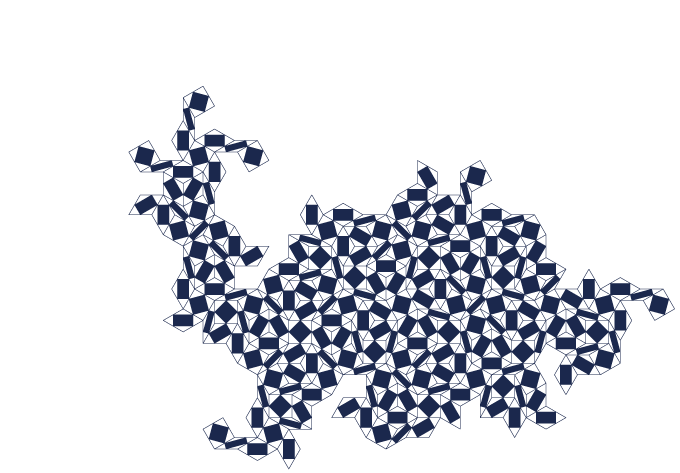
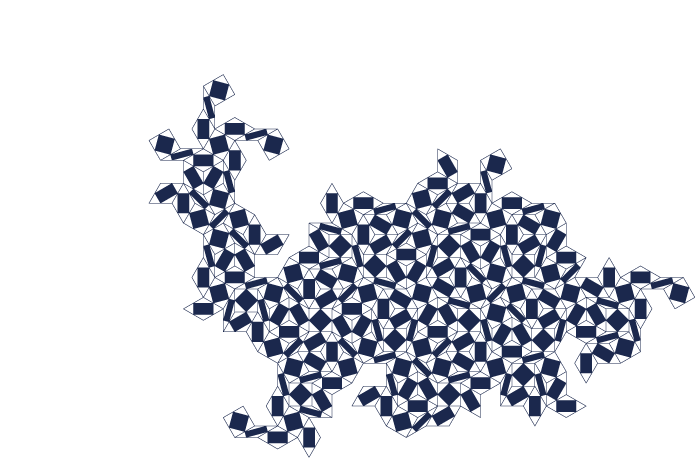
move

Changed region(s): [[0.1853, 0.1515, 1.0, 1.0]]

diff --git a/viscuitta/test.html b/viscuitta/test.html
@@ -18,9 +18,39 @@
                 , { "pattern": [".r1"], "next": [[[3, 3, 1, -1, -1, -1, -2], [-2, 1, 0, 0, 0, -1, -1], [8, 1, 1, 1, 0, -1, -1], [-1, 1, 1, 0, 0, -1, -1]], [[8, 1, 0, 1, 0, -1, -1], [4, 0, 0, 0, 0, -1, -1], [4, 1, 1, 0, 0, -2, -2], [-1, 1, 1, 0, 0, -2, -1], [3, 1, 0, 0, -1, -2, -1], [-1, 0, 0, 0, 0, -1, 0], [-2, 1, 0, 0, -1, -1, -1]], [[0, 0, 0, 0, 0, -1, -1], [1, 1, 0, 0, 0, -1, -1], [0, 1, 1, 0, 0, -2, -2], [-1, 1, 1, 1, 0, -1, -1]]] }
                 , { "pattern": [".r2"], "next": [[], [[8, 1, 0, 1, 0, -1, -1], [-1, 0, 0, 0, 0, -1, 0], [5, 1, 0, 0, -1, -1, -2], [2, 0, 0, -1, -1, -1, -1], [1, 1, 0, 0, 0, -1, -1], [4, 0, 0, 0, 0, -1, -1], [-2, 1, 0, 0, -1, -1, -1], [7, 0, 0, 0, -1, -1, -1]], [[0, 0, 0, 0, 0, -1, -1]]] }]
             ,
+            // harris
+            [{ "pattern": [".r0"], "next": [[[0, 0, 1, 0, 0, -1, 0], [0, 1, 1, 1, -1, -1, -1], [3, 1, 1, 0, -1, -1, -1], [-2, 0, 0, 0, 0, 0, 0], [-2, 2, 2, 1, 0, -1, -2], [-1, 1, 1, 1, 0, 0, 0], [-1, 1, 1, 0, -1, -1, -1]], [[0, 1, 0, 1, 0, -1, -3], [-1, 0, 1, 0, 0, -1, 0], [5, 2, 1, 1, -1, -1, -2], [6, 1, 1, 0, 0, -1, 0]], [[1, 0, 0, 0, 0, 0, 0], [1, 2, 1, 1, -1, -1, -2], [0, 0, 1, 0, 0, -1, -1], [0, 1, 1, 1, 0, -1, -1], [2, 1, 1, 0, 0, -1, 0], [2, 1, 1, 0, -1, -1, -1]]] }
+                , { "pattern": [".r1"], "next": [[[3, 3, 1, -1, -1, -1, -2], [-2, 1, 0, 0, 0, -1, -1], [8, 1, 1, 1, 0, -1, -1], [-1, 1, 1, 0, 0, -1, -1]], [[8, 1, 0, 1, 0, -1, -1], [4, 0, 0, 0, 0, -1, -1], [4, 1, 1, 0, 0, -2, -2], [-1, 1, 1, 0, 0, -2, -1], [3, 1, 0, 0, -1, -2, -1], [-1, 0, 0, 0, 0, -1, 0], [-2, 1, 0, 0, -1, -1, -1]], [[0, 0, 0, 0, 0, -1, -1], [1, 1, 0, 0, 0, -1, -1], [0, 1, 1, 0, 0, -2, -2], [-1, 1, 1, 1, 0, -1, -1]]] }
+                , { "pattern": [".r2"], "next": [[], [[8, 1, 0, 1, 0, -1, -1], [-1, 0, 0, 0, 0, -1, 0], [5, 1, 0, 0, -1, -1, -2], [2, 0, 0, -1, -1, -1, -1], [1, 1, 0, 0, 0, -1, -1], [4, 0, 0, 0, 0, -1, -1], [-2, 1, 0, 0, -1, -1, -1], [7, 0, 0, 0, -1, -1, -1]], [[0, 0, 0, 0, 0, -1, -1]]] }]
+            ,
+            // harris
+            [{ "pattern": [".r0"], "next": [[[0, 0, 1, 0, 0, -1, 0], [0, 1, 1, 1, -1, -1, -1], [3, 1, 1, 0, -1, -1, -1], [-2, 0, 0, 0, 0, 0, 0], [-2, 2, 2, 1, 0, -1, -2], [-1, 1, 1, 1, 0, 0, 0], [-1, 1, 1, 0, -1, -1, -1]], [[0, 1, 0, 1, 0, -1, -3], [-1, 0, 1, 0, 0, -1, 0], [5, 2, 1, 1, -1, -1, -2], [6, 1, 1, 0, 0, -1, 0]], [[1, 0, 0, 0, 0, 0, 0], [1, 2, 1, 1, -1, -1, -2], [0, 0, 1, 0, 0, -1, -1], [0, 1, 1, 1, 0, -1, -1], [2, 1, 1, 0, 0, -1, 0], [2, 1, 1, 0, -1, -1, -1]]] }
+                , { "pattern": [".r1"], "next": [[[3, 3, 1, -1, -1, -1, -2], [-2, 1, 0, 0, 0, -1, -1], [8, 1, 1, 1, 0, -1, -1], [-1, 1, 1, 0, 0, -1, -1]], [[8, 1, 0, 1, 0, -1, -1], [4, 0, 0, 0, 0, -1, -1], [4, 1, 1, 0, 0, -2, -2], [-1, 1, 1, 0, 0, -2, -1], [3, 1, 0, 0, -1, -2, -1], [-1, 0, 0, 0, 0, -1, 0], [-2, 1, 0, 0, -1, -1, -1]], [[0, 0, 0, 0, 0, -1, -1], [1, 1, 0, 0, 0, -1, -1], [0, 1, 1, 0, 0, -2, -2], [-1, 1, 1, 1, 0, -1, -1]]] }
+                , { "pattern": [".r2"], "next": [[], [[8, 1, 0, 1, 0, -1, -1], [-1, 0, 0, 0, 0, -1, 0], [5, 1, 0, 0, -1, -1, -2], [2, 0, 0, -1, -1, -1, -1], [1, 1, 0, 0, 0, -1, -1], [4, 0, 0, 0, 0, -1, -1], [-2, 1, 0, 0, -1, -1, -1], [7, 0, 0, 0, -1, -1, -1]], [[0, 0, 0, 0, 0, -1, -1]]] }]
+            ,
             // combo36
             [{ "pattern": [".r0"], "next": [[[0, 0, 1, 0, 0, -1, 0], [0, 1, 1, 1, -1, -1, -1], [3, 1, 1, 0, -1, -1, -1], [-2, 0, 0, 0, 0, 0, 0], [-2, 2, 2, 1, 0, -1, -2], [-1, 1, 1, 1, 0, 0, 0], [-1, 1, 1, 0, -1, -1, -1]], [[0, 1, 0, 1, 0, -1, -3], [-1, 0, 1, 0, 0, -1, 0], [5, 2, 1, 1, -1, -1, -2], [6, 1, 1, 0, 0, -1, 0], [3, 0, 0, 0, -1, -1, 0], [-3, 2, 2, 1, 0, -1, -2], [-2, 1, 1, 1, 0, 0, 0], [4, 1, 1, 0, -1, -2, -2], [7, 0, 1, 0, -1, -1, -1], [1, 2, 1, 1, 0, -1, -1], [2, 0, 1, 0, 0, 0, 0], [-4, 2, 1, 1, -1, -2, -2]], [[1, 0, 0, 0, 0, 0, 0], [1, 2, 1, 1, -1, -1, -2], [0, 0, 1, 0, 0, -1, -1], [0, 1, 1, 1, 0, -1, -1], [2, 1, 1, 0, 0, -1, 0], [2, 1, 1, 0, -1, -1, -1]]] }
                 , { "pattern": [".r1"], "next": [[[-3, 2, 1, 1, 0, -2, -2], [-2, 1, 0, 0, 0, -1, -1], [8, 1, 1, 1, 0, -1, -1], [-1, 1, 1, 0, 0, -1, -1]], [[8, 2, 1, 1, 0, -2, -2], [0, 1, 1, 1, 0, -1, -2], [4, 1, 1, 0, 0, -2, -2], [-1, 1, 1, 0, 0, -2, -1], [3, 1, 0, 0, -1, -2, -1], [7, 1, 1, 0, -1, -2, -2], [-2, 1, 0, 0, -1, -1, -1]], [[-1, 1, 0, 0, -1, -2, -1], [1, 1, 0, 0, 0, -1, -1], [0, 1, 1, 0, 0, -2, -2], [-1, 1, 1, 1, 0, -1, -1]]] }
+                , { "pattern": [".r2"], "next": [[], [], [[0, 0, 0, 0, 0, -1, -1]]] }]
+            ,
+            // combo36
+            [{ "pattern": [".r0"], "next": [[[0, 0, 1, 0, 0, -1, 0], [0, 1, 1, 1, -1, -1, -1], [3, 1, 1, 0, -1, -1, -1], [-2, 0, 0, 0, 0, 0, 0], [-2, 2, 2, 1, 0, -1, -2], [-1, 1, 1, 1, 0, 0, 0], [-1, 1, 1, 0, -1, -1, -1]], [[0, 1, 0, 1, 0, -1, -3], [-1, 0, 1, 0, 0, -1, 0], [5, 2, 1, 1, -1, -1, -2], [6, 1, 1, 0, 0, -1, 0], [3, 0, 0, 0, -1, -1, 0], [-3, 2, 2, 1, 0, -1, -2], [-2, 1, 1, 1, 0, 0, 0], [4, 1, 1, 0, -1, -2, -2], [7, 0, 1, 0, -1, -1, -1], [1, 2, 1, 1, 0, -1, -1], [2, 0, 1, 0, 0, 0, 0], [-4, 2, 1, 1, -1, -2, -2]], [[1, 0, 0, 0, 0, 0, 0], [1, 2, 1, 1, -1, -1, -2], [0, 0, 1, 0, 0, -1, -1], [0, 1, 1, 1, 0, -1, -1], [2, 1, 1, 0, 0, -1, 0], [2, 1, 1, 0, -1, -1, -1]]] }
+                , { "pattern": [".r1"], "next": [[[-3, 2, 1, 1, 0, -2, -2], [-2, 1, 0, 0, 0, -1, -1], [8, 1, 1, 1, 0, -1, -1], [-1, 1, 1, 0, 0, -1, -1]], [[8, 2, 1, 1, 0, -2, -2], [0, 1, 1, 1, 0, -1, -2], [4, 1, 1, 0, 0, -2, -2], [-1, 1, 1, 0, 0, -2, -1], [3, 1, 0, 0, -1, -2, -1], [7, 1, 1, 0, -1, -2, -2], [-2, 1, 0, 0, -1, -1, -1]], [[-1, 1, 0, 0, -1, -2, -1], [1, 1, 0, 0, 0, -1, -1], [0, 1, 1, 0, 0, -2, -2], [-1, 1, 1, 1, 0, -1, -1]]] }
+                , { "pattern": [".r2"], "next": [[], [], [[0, 0, 0, 0, 0, -1, -1]]] }]
+            ,
+            // combo36
+            [{ "pattern": [".r0"], "next": [[[0, 0, 1, 0, 0, -1, 0], [0, 1, 1, 1, -1, -1, -1], [3, 1, 1, 0, -1, -1, -1], [-2, 0, 0, 0, 0, 0, 0], [-2, 2, 2, 1, 0, -1, -2], [-1, 1, 1, 1, 0, 0, 0], [-1, 1, 1, 0, -1, -1, -1]], [[0, 1, 0, 1, 0, -1, -3], [-1, 0, 1, 0, 0, -1, 0], [5, 2, 1, 1, -1, -1, -2], [6, 1, 1, 0, 0, -1, 0], [3, 0, 0, 0, -1, -1, 0], [-3, 2, 2, 1, 0, -1, -2], [-2, 1, 1, 1, 0, 0, 0], [4, 1, 1, 0, -1, -2, -2], [7, 0, 1, 0, -1, -1, -1], [1, 2, 1, 1, 0, -1, -1], [2, 0, 1, 0, 0, 0, 0], [-4, 2, 1, 1, -1, -2, -2]], [[1, 0, 0, 0, 0, 0, 0], [1, 2, 1, 1, -1, -1, -2], [0, 0, 1, 0, 0, -1, -1], [0, 1, 1, 1, 0, -1, -1], [2, 1, 1, 0, 0, -1, 0], [2, 1, 1, 0, -1, -1, -1]]] }
+                , { "pattern": [".r1"], "next": [[[-3, 2, 1, 1, 0, -2, -2], [-2, 1, 0, 0, 0, -1, -1], [8, 1, 1, 1, 0, -1, -1], [-1, 1, 1, 0, 0, -1, -1]], [[8, 2, 1, 1, 0, -2, -2], [0, 1, 1, 1, 0, -1, -2], [4, 1, 1, 0, 0, -2, -2], [-1, 1, 1, 0, 0, -2, -1], [3, 1, 0, 0, -1, -2, -1], [7, 1, 1, 0, -1, -2, -2], [-2, 1, 0, 0, -1, -1, -1]], [[-1, 1, 0, 0, -1, -2, -1], [1, 1, 0, 0, 0, -1, -1], [0, 1, 1, 0, 0, -2, -2], [-1, 1, 1, 1, 0, -1, -1]]] }
+                , { "pattern": [".r2"], "next": [[], [], [[0, 0, 0, 0, 0, -1, -1]]] }]
+            ,
+            // sqsmall
+            [{ "pattern": [".r0"], "next": [[[0, 0, 1, 0, 0, -1, 0], [0, 1, 1, 1, -1, -1, -1], [3, 1, 1, 0, -1, -1, -1], [-1, 1, 1, 0, -1, -1, -1], [-2, 2, 2, 1, 0, -1, -2], [-1, 1, 1, 1, 0, 0, 0], [-2, 0, 0, 0, 0, 0, 0]], [[0, 1, 0, 1, 0, -1, -3], [4, 1, 0, 0, 0, -2, -3], [-1, 0, 1, 0, 0, -1, 0], [3, 0, 0, 0, -1, -1, 0], [5, 2, 1, 1, -1, -1, -2], [9, 2, 2, 1, 0, -1, -2], [-2, 1, 1, 1, 0, 0, 0], [6, 1, 1, 0, 0, -1, 0], [-1, 1, 1, 0, -1, -2, -1], [4, 2, 2, 1, 0, -2, -2], [5, 1, 1, 1, 0, 0, -1], [-2, 0, 0, 0, -1, 0, 0]], [[1, 0, 0, 0, 0, 0, 0], [1, 2, 1, 1, -1, -1, -2], [0, 0, 1, 0, 0, -1, -1], [0, 1, 1, 1, 0, -1, -1], [2, 1, 1, 0, 0, -1, 0], [2, 1, 1, 0, -1, -1, -1]]] }
+                , { "pattern": [".r1"], "next": [[[-3, 2, 1, 1, 0, -2, -2], [-2, 1, 0, 0, 0, -1, -1], [8, 1, 1, 1, 0, -1, -1], [-1, 1, 1, 0, 0, -1, -1]], [[3, 2, 1, 1, -1, -2, -2], [8, 2, 1, 1, 0, -2, -2], [4, 1, 1, 0, 0, -2, -2], [-1, 1, 1, 0, 0, -2, -1], [3, 1, 0, 0, -1, -2, -1], [-4, 1, 0, 1, 0, -1, -1], [2, 0, 0, -1, -1, -1, -1]], [[0, 0, 0, 0, 0, -1, -1], [1, 1, 0, 0, 0, -1, -1], [0, 1, 1, 0, 0, -2, -2], [-1, 1, 1, 1, 0, -1, -1]]] }
+                , { "pattern": [".r2"], "next": [[], [], [[0, 0, 0, 0, 0, -1, -1]]] }]
+            ,
+            // sqsmall
+            [{ "pattern": [".r0"], "next": [[[0, 0, 1, 0, 0, -1, 0], [0, 1, 1, 1, -1, -1, -1], [3, 1, 1, 0, -1, -1, -1], [-1, 1, 1, 0, -1, -1, -1], [-2, 2, 2, 1, 0, -1, -2], [-1, 1, 1, 1, 0, 0, 0], [-2, 0, 0, 0, 0, 0, 0]], [[0, 1, 0, 1, 0, -1, -3], [4, 1, 0, 0, 0, -2, -3], [-1, 0, 1, 0, 0, -1, 0], [3, 0, 0, 0, -1, -1, 0], [5, 2, 1, 1, -1, -1, -2], [9, 2, 2, 1, 0, -1, -2], [-2, 1, 1, 1, 0, 0, 0], [6, 1, 1, 0, 0, -1, 0], [-1, 1, 1, 0, -1, -2, -1], [4, 2, 2, 1, 0, -2, -2], [5, 1, 1, 1, 0, 0, -1], [-2, 0, 0, 0, -1, 0, 0]], [[1, 0, 0, 0, 0, 0, 0], [1, 2, 1, 1, -1, -1, -2], [0, 0, 1, 0, 0, -1, -1], [0, 1, 1, 1, 0, -1, -1], [2, 1, 1, 0, 0, -1, 0], [2, 1, 1, 0, -1, -1, -1]]] }
+                , { "pattern": [".r1"], "next": [[[-3, 2, 1, 1, 0, -2, -2], [-2, 1, 0, 0, 0, -1, -1], [8, 1, 1, 1, 0, -1, -1], [-1, 1, 1, 0, 0, -1, -1]], [[3, 2, 1, 1, -1, -2, -2], [8, 2, 1, 1, 0, -2, -2], [4, 1, 1, 0, 0, -2, -2], [-1, 1, 1, 0, 0, -2, -1], [3, 1, 0, 0, -1, -2, -1], [-4, 1, 0, 1, 0, -1, -1], [2, 0, 0, -1, -1, -1, -1]], [[0, 0, 0, 0, 0, -1, -1], [1, 1, 0, 0, 0, -1, -1], [0, 1, 1, 0, 0, -2, -2], [-1, 1, 1, 1, 0, -1, -1]]] }
                 , { "pattern": [".r2"], "next": [[], [], [[0, 0, 0, 0, 0, -1, -1]]] }]
             ,
             // sqsmall
@@ -33,6 +63,26 @@
                 , { "pattern": [".r1"], "next": [[[-1, 0, 0, 0, 0, 0, 0], [-2, 1, 0, 0, 0, -1, -1], [8, 1, 1, 1, 0, -1, -1], [-1, 1, 1, 0, 0, -1, -1]], [[8, 1, 0, 1, 0, -1, -1], [8, 2, 1, 1, 0, -2, -2], [4, 1, 1, 0, 0, -2, -2], [-1, 1, 1, 0, 0, -2, -1], [3, 1, 0, 0, -1, -2, -1], [-1, 0, 0, 0, 0, -1, 0], [2, 0, 0, -1, -1, -1, -1]], [[0, 0, 0, 0, 0, -1, -1], [1, 1, 0, 0, 0, -1, -1], [0, 1, 1, 0, 0, -2, -2], [-1, 1, 1, 1, 0, -1, -1]]] }
                 , { "pattern": [".r2"], "next": [[[-1, 0, 0, 0, 0, 0, 0], [5, 1, 0, 0, -1, -2, -2], [2, 0, -1, -1, -1, -1, -1], [-4, 1, 1, 1, 0, -1, -1]], [[8, 1, 0, 1, 0, -1, -1], [-1, 0, 0, 0, 0, -1, 0], [5, 1, 0, 0, -1, -1, -2], [2, 0, 0, -1, -1, -1, -1]], [[0, 0, 0, 0, 0, -1, -1]]] }]
             ,
+            // x
+            [{ "pattern": [".r0"], "next": [[[0, 0, 1, 0, 0, -1, 0], [0, 1, 1, 1, -1, -1, -1], [3, 1, 1, 0, -1, -1, -1]], [[0, 1, 0, 1, 0, -1, -3], [4, 1, 0, 0, 0, -2, -3], [-1, 0, 1, 0, 0, -1, 0], [3, 0, 0, 0, -1, -1, 0], [5, 2, 1, 1, -1, -1, -2], [9, 2, 2, 1, 0, -1, -2], [-2, 1, 1, 1, 0, 0, 0], [6, 1, 1, 0, 0, -1, 0]], [[1, 0, 0, 0, 0, 0, 0], [1, 2, 1, 1, -1, -1, -2], [0, 0, 1, 0, 0, -1, -1], [0, 1, 1, 1, 0, -1, -1], [2, 1, 1, 0, 0, -1, 0], [2, 1, 1, 0, -1, -1, -1]]] }
+                , { "pattern": [".r1"], "next": [[[-1, 0, 0, 0, 0, 0, 0], [-2, 1, 0, 0, 0, -1, -1], [8, 1, 1, 1, 0, -1, -1], [-1, 1, 1, 0, 0, -1, -1]], [[8, 1, 0, 1, 0, -1, -1], [8, 2, 1, 1, 0, -2, -2], [4, 1, 1, 0, 0, -2, -2], [-1, 1, 1, 0, 0, -2, -1], [3, 1, 0, 0, -1, -2, -1], [-1, 0, 0, 0, 0, -1, 0], [2, 0, 0, -1, -1, -1, -1]], [[0, 0, 0, 0, 0, -1, -1], [1, 1, 0, 0, 0, -1, -1], [0, 1, 1, 0, 0, -2, -2], [-1, 1, 1, 1, 0, -1, -1]]] }
+                , { "pattern": [".r2"], "next": [[[-1, 0, 0, 0, 0, 0, 0], [5, 1, 0, 0, -1, -2, -2], [2, 0, -1, -1, -1, -1, -1], [-4, 1, 1, 1, 0, -1, -1]], [[8, 1, 0, 1, 0, -1, -1], [-1, 0, 0, 0, 0, -1, 0], [5, 1, 0, 0, -1, -1, -2], [2, 0, 0, -1, -1, -1, -1]], [[0, 0, 0, 0, 0, -1, -1]]] }]
+            ,
+            // x
+            [{ "pattern": [".r0"], "next": [[[0, 0, 1, 0, 0, -1, 0], [0, 1, 1, 1, -1, -1, -1], [3, 1, 1, 0, -1, -1, -1]], [[0, 1, 0, 1, 0, -1, -3], [4, 1, 0, 0, 0, -2, -3], [-1, 0, 1, 0, 0, -1, 0], [3, 0, 0, 0, -1, -1, 0], [5, 2, 1, 1, -1, -1, -2], [9, 2, 2, 1, 0, -1, -2], [-2, 1, 1, 1, 0, 0, 0], [6, 1, 1, 0, 0, -1, 0]], [[1, 0, 0, 0, 0, 0, 0], [1, 2, 1, 1, -1, -1, -2], [0, 0, 1, 0, 0, -1, -1], [0, 1, 1, 1, 0, -1, -1], [2, 1, 1, 0, 0, -1, 0], [2, 1, 1, 0, -1, -1, -1]]] }
+                , { "pattern": [".r1"], "next": [[[-1, 0, 0, 0, 0, 0, 0], [-2, 1, 0, 0, 0, -1, -1], [8, 1, 1, 1, 0, -1, -1], [-1, 1, 1, 0, 0, -1, -1]], [[8, 1, 0, 1, 0, -1, -1], [8, 2, 1, 1, 0, -2, -2], [4, 1, 1, 0, 0, -2, -2], [-1, 1, 1, 0, 0, -2, -1], [3, 1, 0, 0, -1, -2, -1], [-1, 0, 0, 0, 0, -1, 0], [2, 0, 0, -1, -1, -1, -1]], [[0, 0, 0, 0, 0, -1, -1], [1, 1, 0, 0, 0, -1, -1], [0, 1, 1, 0, 0, -2, -2], [-1, 1, 1, 1, 0, -1, -1]]] }
+                , { "pattern": [".r2"], "next": [[[-1, 0, 0, 0, 0, 0, 0], [5, 1, 0, 0, -1, -2, -2], [2, 0, -1, -1, -1, -1, -1], [-4, 1, 1, 1, 0, -1, -1]], [[8, 1, 0, 1, 0, -1, -1], [-1, 0, 0, 0, 0, -1, 0], [5, 1, 0, 0, -1, -1, -2], [2, 0, 0, -1, -1, -1, -1]], [[0, 0, 0, 0, 0, -1, -1]]] }]
+            ,
+            // spiral
+            [{ "pattern": [".r0"], "next": [[[0, 0, 1, 0, 0, -1, 0], [0, 1, 1, 1, -1, -1, -1], [3, 1, 1, 0, -1, -1, -1]], [[0, 1, 0, 1, 0, -1, -3], [4, 1, 0, 0, 0, -2, -3], [-1, 0, 1, 0, 0, -1, 0], [3, 0, 0, 0, -1, -1, 0], [5, 2, 1, 1, -1, -1, -2], [9, 2, 2, 1, 0, -1, -2], [-2, 1, 1, 1, 0, 0, 0], [6, 1, 1, 0, 0, -1, 0]], [[0, 0, 1, 0, 0, -1, -1], [0, 1, 1, 1, 0, -1, -1]]] }
+                , { "pattern": [".r1"], "next": [[[-1, 0, 0, 0, 0, 0, 0], [-2, 1, 0, 0, 0, -1, -1], [8, 1, 1, 1, 0, -1, -1], [-1, 1, 1, 0, 0, -1, -1]], [[8, 1, 0, 1, 0, -1, -1], [8, 2, 1, 1, 0, -2, -2], [4, 1, 1, 0, 0, -2, -2], [-1, 1, 1, 0, 0, -2, -1], [3, 1, 0, 0, -1, -2, -1], [-1, 0, 0, 0, 0, -1, 0], [2, 0, 0, -1, -1, -1, -1]], [[0, 0, 0, 0, 0, -1, -1], [1, 1, 0, 0, 0, -1, -1], [-1, 0, 0, 1, 0, 0, 0], [-1, 1, 1, 1, 0, -1, -1]]] }
+                , { "pattern": [".r2"], "next": [[[-1, 0, 0, 0, 0, 0, 0], [5, 1, 0, 0, -1, -2, -2], [2, 0, -1, -1, -1, -1, -1], [-4, 1, 1, 1, 0, -1, -1]], [[8, 1, 0, 1, 0, -1, -1], [-1, 0, 0, 0, 0, -1, 0], [5, 1, 0, 0, -1, -1, -2], [2, 0, 0, -1, -1, -1, -1]], [[0, 0, 0, 0, 0, -1, -1], [2, 0, 0, 0, 0, 0, 0], [2, 1, 0, -1, -1, -2, -1], [2, 0, -1, -1, -1, -1, 0], [2, 1, 1, 0, 0, -1, -1]]] }]
+            ,
+            // spiral
+            [{ "pattern": [".r0"], "next": [[[0, 0, 1, 0, 0, -1, 0], [0, 1, 1, 1, -1, -1, -1], [3, 1, 1, 0, -1, -1, -1]], [[0, 1, 0, 1, 0, -1, -3], [4, 1, 0, 0, 0, -2, -3], [-1, 0, 1, 0, 0, -1, 0], [3, 0, 0, 0, -1, -1, 0], [5, 2, 1, 1, -1, -1, -2], [9, 2, 2, 1, 0, -1, -2], [-2, 1, 1, 1, 0, 0, 0], [6, 1, 1, 0, 0, -1, 0]], [[0, 0, 1, 0, 0, -1, -1], [0, 1, 1, 1, 0, -1, -1]]] }
+                , { "pattern": [".r1"], "next": [[[-1, 0, 0, 0, 0, 0, 0], [-2, 1, 0, 0, 0, -1, -1], [8, 1, 1, 1, 0, -1, -1], [-1, 1, 1, 0, 0, -1, -1]], [[8, 1, 0, 1, 0, -1, -1], [8, 2, 1, 1, 0, -2, -2], [4, 1, 1, 0, 0, -2, -2], [-1, 1, 1, 0, 0, -2, -1], [3, 1, 0, 0, -1, -2, -1], [-1, 0, 0, 0, 0, -1, 0], [2, 0, 0, -1, -1, -1, -1]], [[0, 0, 0, 0, 0, -1, -1], [1, 1, 0, 0, 0, -1, -1], [-1, 0, 0, 1, 0, 0, 0], [-1, 1, 1, 1, 0, -1, -1]]] }
+                , { "pattern": [".r2"], "next": [[[-1, 0, 0, 0, 0, 0, 0], [5, 1, 0, 0, -1, -2, -2], [2, 0, -1, -1, -1, -1, -1], [-4, 1, 1, 1, 0, -1, -1]], [[8, 1, 0, 1, 0, -1, -1], [-1, 0, 0, 0, 0, -1, 0], [5, 1, 0, 0, -1, -1, -2], [2, 0, 0, -1, -1, -1, -1]], [[0, 0, 0, 0, 0, -1, -1], [2, 0, 0, 0, 0, 0, 0], [2, 1, 0, -1, -1, -2, -1], [2, 0, -1, -1, -1, -1, 0], [2, 1, 1, 0, 0, -1, -1]]] }]
+            ,
             // spiral
             [{ "pattern": [".r0"], "next": [[[0, 0, 1, 0, 0, -1, 0], [0, 1, 1, 1, -1, -1, -1], [3, 1, 1, 0, -1, -1, -1]], [[0, 1, 0, 1, 0, -1, -3], [4, 1, 0, 0, 0, -2, -3], [-1, 0, 1, 0, 0, -1, 0], [3, 0, 0, 0, -1, -1, 0], [5, 2, 1, 1, -1, -1, -2], [9, 2, 2, 1, 0, -1, -2], [-2, 1, 1, 1, 0, 0, 0], [6, 1, 1, 0, 0, -1, 0]], [[0, 0, 1, 0, 0, -1, -1], [0, 1, 1, 1, 0, -1, -1]]] }
                 , { "pattern": [".r1"], "next": [[[-1, 0, 0, 0, 0, 0, 0], [-2, 1, 0, 0, 0, -1, -1], [8, 1, 1, 1, 0, -1, -1], [-1, 1, 1, 0, 0, -1, -1]], [[8, 1, 0, 1, 0, -1, -1], [8, 2, 1, 1, 0, -2, -2], [4, 1, 1, 0, 0, -2, -2], [-1, 1, 1, 0, 0, -2, -1], [3, 1, 0, 0, -1, -2, -1], [-1, 0, 0, 0, 0, -1, 0], [2, 0, 0, -1, -1, -1, -1]], [[0, 0, 0, 0, 0, -1, -1], [1, 1, 0, 0, 0, -1, -1], [-1, 0, 0, 1, 0, 0, 0], [-1, 1, 1, 1, 0, -1, -1]]] }
@@ -42,6 +92,26 @@
             [{ "pattern": [".r0"], "next": [[[0, 0, 1, 0, 0, -1, 0], [0, 1, 1, 1, -1, -1, -1], [3, 1, 1, 0, -1, -1, -1]], [[0, 1, 0, 1, 0, -1, -3], [-1, 0, 1, 0, 0, -1, 0], [5, 2, 1, 1, -1, -1, -2], [6, 1, 1, 0, 0, -1, 0]], [[1, 0, 0, 0, 0, 0, 0], [1, 2, 1, 1, -1, -1, -2], [0, 0, 1, 0, 0, -1, -1], [0, 1, 1, 1, 0, -1, -1], [2, 1, 1, 0, 0, -1, 0], [2, 1, 1, 0, -1, -1, -1]]] }
                 , { "pattern": [".r1"], "next": [[[-1, 0, 0, 0, 0, 0, 0], [-2, 1, 0, 0, 0, -1, -1], [8, 1, 1, 1, 0, -1, -1], [-1, 1, 1, 0, 0, -1, -1]], [[8, 1, 0, 1, 0, -1, -1], [4, 0, 0, 0, 0, -1, -1], [4, 1, 1, 0, 0, -2, -2], [-1, 1, 1, 0, 0, -2, -1], [3, 1, 0, 0, -1, -2, -1], [-1, 0, 0, 0, 0, -1, 0], [-2, 1, 0, 0, -1, -1, -1]], [[0, 0, 0, 0, 0, -1, -1], [1, 1, 0, 0, 0, -1, -1], [0, 1, 1, 0, 0, -2, -2], [-1, 1, 1, 1, 0, -1, -1]]] }
                 , { "pattern": [".r2"], "next": [[[-1, 0, 0, 0, 0, 0, 0], [5, 1, 0, 0, -1, -2, -2], [2, 0, -1, -1, -1, -1, -1], [-4, 1, 1, 1, 0, -1, -1]], [[8, 1, 0, 1, 0, -1, -1], [-1, 0, 0, 0, 0, -1, 0], [5, 1, 0, 0, -1, -1, -2], [2, 0, 0, -1, -1, -1, -1], [1, 1, 0, 0, 0, -1, -1], [4, 0, 0, 0, 0, -1, -1], [-2, 1, 0, 0, -1, -1, -1], [7, 0, 0, 0, -1, -1, -1]], [[0, 0, 0, 0, 0, -1, -1]]] }]
+            ,
+            // s
+            [{ "pattern": [".r0"], "next": [[[0, 0, 1, 0, 0, -1, 0], [0, 1, 1, 1, -1, -1, -1], [3, 1, 1, 0, -1, -1, -1]], [[0, 1, 0, 1, 0, -1, -3], [-1, 0, 1, 0, 0, -1, 0], [5, 2, 1, 1, -1, -1, -2], [6, 1, 1, 0, 0, -1, 0]], [[1, 0, 0, 0, 0, 0, 0], [1, 2, 1, 1, -1, -1, -2], [0, 0, 1, 0, 0, -1, -1], [0, 1, 1, 1, 0, -1, -1], [2, 1, 1, 0, 0, -1, 0], [2, 1, 1, 0, -1, -1, -1]]] }
+                , { "pattern": [".r1"], "next": [[[-1, 0, 0, 0, 0, 0, 0], [-2, 1, 0, 0, 0, -1, -1], [8, 1, 1, 1, 0, -1, -1], [-1, 1, 1, 0, 0, -1, -1]], [[8, 1, 0, 1, 0, -1, -1], [4, 0, 0, 0, 0, -1, -1], [4, 1, 1, 0, 0, -2, -2], [-1, 1, 1, 0, 0, -2, -1], [3, 1, 0, 0, -1, -2, -1], [-1, 0, 0, 0, 0, -1, 0], [-2, 1, 0, 0, -1, -1, -1]], [[0, 0, 0, 0, 0, -1, -1], [1, 1, 0, 0, 0, -1, -1], [0, 1, 1, 0, 0, -2, -2], [-1, 1, 1, 1, 0, -1, -1]]] }
+                , { "pattern": [".r2"], "next": [[[-1, 0, 0, 0, 0, 0, 0], [5, 1, 0, 0, -1, -2, -2], [2, 0, -1, -1, -1, -1, -1], [-4, 1, 1, 1, 0, -1, -1]], [[8, 1, 0, 1, 0, -1, -1], [-1, 0, 0, 0, 0, -1, 0], [5, 1, 0, 0, -1, -1, -2], [2, 0, 0, -1, -1, -1, -1], [1, 1, 0, 0, 0, -1, -1], [4, 0, 0, 0, 0, -1, -1], [-2, 1, 0, 0, -1, -1, -1], [7, 0, 0, 0, -1, -1, -1]], [[0, 0, 0, 0, 0, -1, -1]]] }]
+            ,
+            // s
+            [{ "pattern": [".r0"], "next": [[[0, 0, 1, 0, 0, -1, 0], [0, 1, 1, 1, -1, -1, -1], [3, 1, 1, 0, -1, -1, -1]], [[0, 1, 0, 1, 0, -1, -3], [-1, 0, 1, 0, 0, -1, 0], [5, 2, 1, 1, -1, -1, -2], [6, 1, 1, 0, 0, -1, 0]], [[1, 0, 0, 0, 0, 0, 0], [1, 2, 1, 1, -1, -1, -2], [0, 0, 1, 0, 0, -1, -1], [0, 1, 1, 1, 0, -1, -1], [2, 1, 1, 0, 0, -1, 0], [2, 1, 1, 0, -1, -1, -1]]] }
+                , { "pattern": [".r1"], "next": [[[-1, 0, 0, 0, 0, 0, 0], [-2, 1, 0, 0, 0, -1, -1], [8, 1, 1, 1, 0, -1, -1], [-1, 1, 1, 0, 0, -1, -1]], [[8, 1, 0, 1, 0, -1, -1], [4, 0, 0, 0, 0, -1, -1], [4, 1, 1, 0, 0, -2, -2], [-1, 1, 1, 0, 0, -2, -1], [3, 1, 0, 0, -1, -2, -1], [-1, 0, 0, 0, 0, -1, 0], [-2, 1, 0, 0, -1, -1, -1]], [[0, 0, 0, 0, 0, -1, -1], [1, 1, 0, 0, 0, -1, -1], [0, 1, 1, 0, 0, -2, -2], [-1, 1, 1, 1, 0, -1, -1]]] }
+                , { "pattern": [".r2"], "next": [[[-1, 0, 0, 0, 0, 0, 0], [5, 1, 0, 0, -1, -2, -2], [2, 0, -1, -1, -1, -1, -1], [-4, 1, 1, 1, 0, -1, -1]], [[8, 1, 0, 1, 0, -1, -1], [-1, 0, 0, 0, 0, -1, 0], [5, 1, 0, 0, -1, -1, -2], [2, 0, 0, -1, -1, -1, -1], [1, 1, 0, 0, 0, -1, -1], [4, 0, 0, 0, 0, -1, -1], [-2, 1, 0, 0, -1, -1, -1], [7, 0, 0, 0, -1, -1, -1]], [[0, 0, 0, 0, 0, -1, -1]]] }]
+            ,
+            // dradragon
+            [{ "pattern": [".r0"], "next": [[[0, 0, 1, 0, 0, -1, 0], [0, 1, 1, 1, -1, -1, -1], [3, 1, 1, 0, -1, -1, -1], [-2, 0, 0, 0, 0, 0, 0], [-2, 2, 2, 1, 0, -1, -2], [-1, 1, 1, 1, 0, 0, 0], [-1, 1, 1, 0, -1, -1, -1]], [[0, 1, 0, 1, 0, -1, -3], [-1, 0, 1, 0, 0, -1, 0], [5, 2, 1, 1, -1, -1, -2], [6, 1, 1, 0, 0, -1, 0]], [[1, 0, 0, 0, 0, 0, 0], [1, 2, 1, 1, -1, -1, -2], [0, 0, 1, 0, 0, -1, -1], [0, 1, 1, 1, 0, -1, -1], [2, 1, 1, 0, 0, -1, 0], [2, 1, 1, 0, -1, -1, -1]]] }
+                , { "pattern": [".r1"], "next": [[[3, 3, 1, -1, -1, -1, -2], [-1, 1, 0, 0, -1, -1, -1], [8, 1, 1, 1, 0, -1, -1], [4, 1, 1, 0, -1, -2, -2]], [[8, 1, 0, 1, 0, -1, -1], [4, 0, 0, 0, 0, -1, -1], [4, 1, 1, 0, 0, -2, -2], [1, 1, 0, 0, 0, -1, -1], [1, 1, -1, -1, -1, -2, -1], [5, 1, -1, -1, -2, -2, -2], [-2, 1, 0, 0, -1, -1, -1]], [[7, 1, 1, 0, -1, -2, -2], [2, 1, 0, -1, -1, -2, -1], [0, 1, 1, 0, 0, -2, -2], [-1, 1, 1, 1, 0, -1, -1]]] }
+                , { "pattern": [".r2"], "next": [[], [[8, 1, 0, 1, 0, -1, -1], [-1, 0, 0, 0, 0, -1, 0], [5, 1, 0, 0, -1, -1, -2], [2, 0, 0, -1, -1, -1, -1], [1, 1, 0, 0, 0, -1, -1], [4, 0, 0, 0, 0, -1, -1], [-2, 1, 0, 0, -1, -1, -1], [7, 0, 0, 0, -1, -1, -1]], [[0, 0, 0, 0, 0, -1, -1]]] }]
+            ,
+            // dradragon
+            [{ "pattern": [".r0"], "next": [[[0, 0, 1, 0, 0, -1, 0], [0, 1, 1, 1, -1, -1, -1], [3, 1, 1, 0, -1, -1, -1], [-2, 0, 0, 0, 0, 0, 0], [-2, 2, 2, 1, 0, -1, -2], [-1, 1, 1, 1, 0, 0, 0], [-1, 1, 1, 0, -1, -1, -1]], [[0, 1, 0, 1, 0, -1, -3], [-1, 0, 1, 0, 0, -1, 0], [5, 2, 1, 1, -1, -1, -2], [6, 1, 1, 0, 0, -1, 0]], [[1, 0, 0, 0, 0, 0, 0], [1, 2, 1, 1, -1, -1, -2], [0, 0, 1, 0, 0, -1, -1], [0, 1, 1, 1, 0, -1, -1], [2, 1, 1, 0, 0, -1, 0], [2, 1, 1, 0, -1, -1, -1]]] }
+                , { "pattern": [".r1"], "next": [[[3, 3, 1, -1, -1, -1, -2], [-1, 1, 0, 0, -1, -1, -1], [8, 1, 1, 1, 0, -1, -1], [4, 1, 1, 0, -1, -2, -2]], [[8, 1, 0, 1, 0, -1, -1], [4, 0, 0, 0, 0, -1, -1], [4, 1, 1, 0, 0, -2, -2], [1, 1, 0, 0, 0, -1, -1], [1, 1, -1, -1, -1, -2, -1], [5, 1, -1, -1, -2, -2, -2], [-2, 1, 0, 0, -1, -1, -1]], [[7, 1, 1, 0, -1, -2, -2], [2, 1, 0, -1, -1, -2, -1], [0, 1, 1, 0, 0, -2, -2], [-1, 1, 1, 1, 0, -1, -1]]] }
+                , { "pattern": [".r2"], "next": [[], [[8, 1, 0, 1, 0, -1, -1], [-1, 0, 0, 0, 0, -1, 0], [5, 1, 0, 0, -1, -1, -2], [2, 0, 0, -1, -1, -1, -1], [1, 1, 0, 0, 0, -1, -1], [4, 0, 0, 0, 0, -1, -1], [-2, 1, 0, 0, -1, -1, -1], [7, 0, 0, 0, -1, -1, -1]], [[0, 0, 0, 0, 0, -1, -1]]] }]
             ,
             // dradragon
             [{ "pattern": [".r0"], "next": [[[0, 0, 1, 0, 0, -1, 0], [0, 1, 1, 1, -1, -1, -1], [3, 1, 1, 0, -1, -1, -1], [-2, 0, 0, 0, 0, 0, 0], [-2, 2, 2, 1, 0, -1, -2], [-1, 1, 1, 1, 0, 0, 0], [-1, 1, 1, 0, -1, -1, -1]], [[0, 1, 0, 1, 0, -1, -3], [-1, 0, 1, 0, 0, -1, 0], [5, 2, 1, 1, -1, -1, -2], [6, 1, 1, 0, 0, -1, 0]], [[1, 0, 0, 0, 0, 0, 0], [1, 2, 1, 1, -1, -1, -2], [0, 0, 1, 0, 0, -1, -1], [0, 1, 1, 1, 0, -1, -1], [2, 1, 1, 0, 0, -1, 0], [2, 1, 1, 0, -1, -1, -1]]] }

diff --git a/viscuitta/test.js b/viscuitta/test.js
@@ -35,71 +35,71 @@
         },
         "polygons": [
             `<g class='r0' transform="translate(${(g_len * (1 + g_ac))/2},${(g_len * g_as)/2})"><g class='rr'><g transform="translate(${-(g_len * (1 + g_ac))/2},${-(g_len * g_as)/2})">
-            <g class='base hide'>
+            <g class='img0 img3 img6 img9 img12 img15 img18 hide'>
             <polygon fill="#ffffff" stroke-width="10" points='0 0, ${g_len} 0, ${g_len * (1 + g_ac)} ${g_len * g_as},${g_len * g_ac} ${g_len * g_as}' stroke='#00165f' stroke-linejoin="round"></polygon>
             <polygon fill="#00165f" points='${(0 + g_len) / 2} ${(0 + 0) / 2},${(g_len + g_len * (1 + g_ac)) / 2} ${(0 + g_len * g_as) / 2},${(g_len * (1 + g_ac) + g_len * g_ac) / 2} ${(g_len * g_as + g_len * g_as) / 2},${(g_len * g_ac + 0) / 2} ${(g_len * g_as + 0) / 2}' ></polygon>
             </g>
             <g transform="translate(${-g_len/2},${-g_len})">
-            <image class='img0 hide' href="./image/0/30.png"/>
-            <image class='img1 hide' href="./image/1/30.png"/>
-            <image class='img2 hide' href="./image/2/30.png"/>
-            <image class='img3 hide' href="./image/3/30.png"/>
-            <image class='img4 hide' href="./image/4/30.png"/>
-            <image class='img5 hide' href="./image/5/30.png"/>
-            <image class='img6 hide' href="./image/6/30.png"/>
-            <image class='img0a hide' href="./image/0/30-2.png"/>
-            <image class='img1a hide' href="./image/1/30-2.png"/>
-            <image class='img2a hide' href="./image/2/30-2.png"/>
-            <image class='img3a hide' href="./image/3/30-2.png"/>
-            <image class='img4a hide' href="./image/4/30-2.png"/>
-            <image class='img5a hide' href="./image/5/30-2.png"/>
-            <image class='img6a hide' href="./image/6/30-2.png"/>
+            <image class='img1 hide' href="./image/0/30.png"/>
+            <image class='img2 hide' href="./image/0/30-2.png"/>
+            <image class='img4 hide' href="./image/1/30.png"/>
+            <image class='img5 hide' href="./image/1/30-2.png"/>
+            <image class='img7 hide' href="./image/2/30.png"/>
+            <image class='img8 hide' href="./image/2/30-2.png"/>
+            <image class='img10 hide' href="./image/3/30.png"/>
+            <image class='img11 hide' href="./image/3/30-2.png"/>
+            <image class='img13 hide' href="./image/4/30.png"/>
+            <image class='img14 hide' href="./image/4/30-2.png"/>
+            <image class='img16 hide' href="./image/5/30.png"/>
+            <image class='img17 hide' href="./image/5/30-2.png"/>
+            <image class='img19 hide' href="./image/6/30.png"/>
+            <image class='img20 hide' href="./image/6/30-2.png"/>
             </g>
             </g></g></g>`
             ,
             `<g class='r1' transform="translate(${(g_len * (1 + g_ac1))/2},${(g_len * g_as1)/2})"><g class='rr'><g transform="translate(${-(g_len * (1 + g_ac1))/2},${-(g_len * g_as1)/2})">
-            <g class='base hide'>
+            <g class='img0 img3 img6 img9 img12 img15 img18 hide'>
             <polygon fill="#ffffff" stroke-width="10" points='0 0, ${g_len} 0, ${g_len * (1 + g_ac1)} ${g_len * g_as1},${g_len * g_ac1} ${g_len * g_as1}' stroke='#00165f' stroke-linejoin="round"></polygon>
             <polygon fill="#00165f" points='${(0 + g_len) / 2} ${(0 + 0) / 2},${(g_len + g_len * (1 + g_ac1)) / 2} ${(0 + g_len * g_as1) / 2},${(g_len * (1 + g_ac1) + g_len * g_ac1) / 2} ${(g_len * g_as1 + g_len * g_as1) / 2},${(g_len * g_ac1 + 0) / 2} ${(g_len * g_as1 + 0) / 2}' ></polygon>
             </g>
             <g transform="translate(${-g_len/2},${-g_len/2})">
-            <image class='img0 hide' href="./image/0/60.png"/>
-            <image class='img1 hide' href="./image/1/60.png"/>
-            <image class='img2 hide' href="./image/2/60.png"/>
-            <image class='img3 hide' href="./image/3/60.png"/>
-            <image class='img4 hide' href="./image/4/60.png"/>
-            <image class='img5 hide' href="./image/5/60.png"/>
-            <image class='img6 hide' href="./image/6/60.png"/>
-            <image class='img0a hide' href="./image/0/60-2.png"/>
-            <image class='img1a hide' href="./image/1/60-2.png"/>
-            <image class='img2a hide' href="./image/2/60-2.png"/>
-            <image class='img3a hide' href="./image/3/60-2.png"/>
-            <image class='img4a hide' href="./image/4/60-2.png"/>
-            <image class='img5a hide' href="./image/5/60-2.png"/>
-            <image class='img6a hide' href="./image/6/60-2.png"/>
+            <image class='img1 hide' href="./image/0/60.png"/>
+            <image class='img2 hide' href="./image/0/60-2.png"/>
+            <image class='img4 hide' href="./image/1/60.png"/>
+            <image class='img5 hide' href="./image/1/60-2.png"/>
+            <image class='img7 hide' href="./image/2/60.png"/>
+            <image class='img8 hide' href="./image/2/60-2.png"/>
+            <image class='img10 hide' href="./image/3/60.png"/>
+            <image class='img11 hide' href="./image/3/60-2.png"/>
+            <image class='img13 hide' href="./image/4/60.png"/>
+            <image class='img14 hide' href="./image/4/60-2.png"/>
+            <image class='img16 hide' href="./image/5/60.png"/>
+            <image class='img17 hide' href="./image/5/60-2.png"/>
+            <image class='img19 hide' href="./image/6/60.png"/>
+            <image class='img20 hide' href="./image/6/60-2.png"/>
             </g>
             </g></g></g>`
             ,
             `<g class='r2' transform="translate(${g_len/2},${g_len/2})"><g class='rr'><g transform="translate(${-g_len/2},${-g_len/2})">
-            <g class='base hide'>
+            <g class='img0 img3 img6 img9 img12 img15 img18 hide'>
              <polygon fill="#ffffff" stroke-width="10" points='0 0, ${g_len} 0, ${g_len * (1 + g_ac2)} ${g_len * g_as2},${g_len * g_ac2} ${g_len * g_as2}' stroke='#00165f' stroke-linejoin="round"></polygon>
              <polygon fill="#00165f" points='${(0 + g_len) / 2} ${(0 + 0) / 2},${(g_len + g_len * (1 + g_ac2)) / 2} ${(0 + g_len * g_as2) / 2},${(g_len * (1 + g_ac2) + g_len * g_ac2) / 2} ${(g_len * g_as2 + g_len * g_as2) / 2},${(g_len * g_ac2 + 0) / 2} ${(g_len * g_as2 + 0) / 2}' ></polygon>
              </g>
              <g transform="translate(${-g_len/2},${-g_len/2})">
-            <image class='img0 hide' href="./image/0/90.png"/>
-            <image class='img1 hide' href="./image/1/90.png"/>
-            <image class='img2 hide' href="./image/2/90.png"/>
-            <image class='img3 hide' href="./image/3/90.png"/>
-            <image class='img4 hide' href="./image/4/90.png"/>
-            <image class='img5 hide' href="./image/5/90.png"/>
-            <image class='img6 hide' href="./image/6/90.png"/>
-            <image class='img0a hide' href="./image/0/90-2.png"/>
-            <image class='img1a hide' href="./image/1/90-2.png"/>
-            <image class='img2a hide' href="./image/2/90-2.png"/>
-            <image class='img3a hide' href="./image/3/90-2.png"/>
-            <image class='img4a hide' href="./image/4/90-2.png"/>
-            <image class='img5a hide' href="./image/5/90-2.png"/>
-            <image class='img6a hide' href="./image/6/90-2.png"/>
+            <image class='img1 hide' href="./image/0/90.png"/>
+            <image class='img2 hide' href="./image/0/90-2.png"/>
+            <image class='img4 hide' href="./image/1/90.png"/>
+            <image class='img5 hide' href="./image/1/90-2.png"/>
+            <image class='img7 hide' href="./image/2/90.png"/>
+            <image class='img8 hide' href="./image/2/90-2.png"/>
+            <image class='img10 hide' href="./image/3/90.png"/>
+            <image class='img11 hide' href="./image/3/90-2.png"/>
+            <image class='img13 hide' href="./image/4/90.png"/>
+            <image class='img14 hide' href="./image/4/90-2.png"/>
+            <image class='img16 hide' href="./image/5/90.png"/>
+            <image class='img17 hide' href="./image/5/90-2.png"/>
+            <image class='img19 hide' href="./image/6/90.png"/>
+            <image class='img20 hide' href="./image/6/90-2.png"/>
              </g>
              </g></g></g>`
             ,
@@ -131,7 +131,7 @@
         let polygonStr = config.polygons[polygon];
         let className = '';
         if (param.stepLimit===1) {
-            className = 'class="move move'+polygon+'"';
+            className = 'class="move init'+polygon+' move'+polygon+'"';
         }
         g.insertAdjacentHTML('beforeend', `<g ${className} x-polygon="${polygon}" transform="translate(${x},${y})rotate(${r})scale(${sx},${sy})">${polygonStr}</g>`);
         
@@ -256,11 +256,11 @@
         }
     }
     function showImage() {
-        let imgs_last = document.querySelectorAll('image.img'+last());
+        let imgs_last = document.querySelectorAll('.img'+last());
         for (let ii=0;ii<imgs_last.length;ii++){
             imgs_last[ii].classList.add('hide');
         }
-        let imgs = document.querySelectorAll('image.img'+param.ruleIndex);
+        let imgs = document.querySelectorAll('.img'+param.ruleIndex);
         for (let ii=0;ii<imgs.length;ii++){
             imgs[ii].classList.remove('hide');
         }
@@ -271,13 +271,30 @@
         document.addEventListener('DOMContentLoaded',
             function () {
 
+
                 addButton('start', function () {
                     clear(args);
                     addSeed(args);
                     param.stepLimit = 1;
-                    //main(0, args);
+                    main(0, args);
                     showImage();
                     incr();
+                });
+                addButton('move', function () {
+                    if (param.stepLimit===1) {
+                        let moves0 = document.querySelectorAll('g.move0');
+                        for (let mi=0;mi<moves0.length;mi++) {
+                            moves0[mi].classList.toggle('init0');
+                        } 
+                        let moves1 = document.querySelectorAll('g.move1');
+                        for (let mi=0;mi<moves1.length;mi++) {
+                            moves1[mi].classList.toggle('init1');
+                        } 
+                        let moves2 = document.querySelectorAll('g.move2');
+                        for (let mi=0;mi<moves2.length;mi++) {
+                            moves2[mi].classList.toggle('init2');
+                        } 
+                    }
                 });
                 /*
                 addButton('start', function () {
